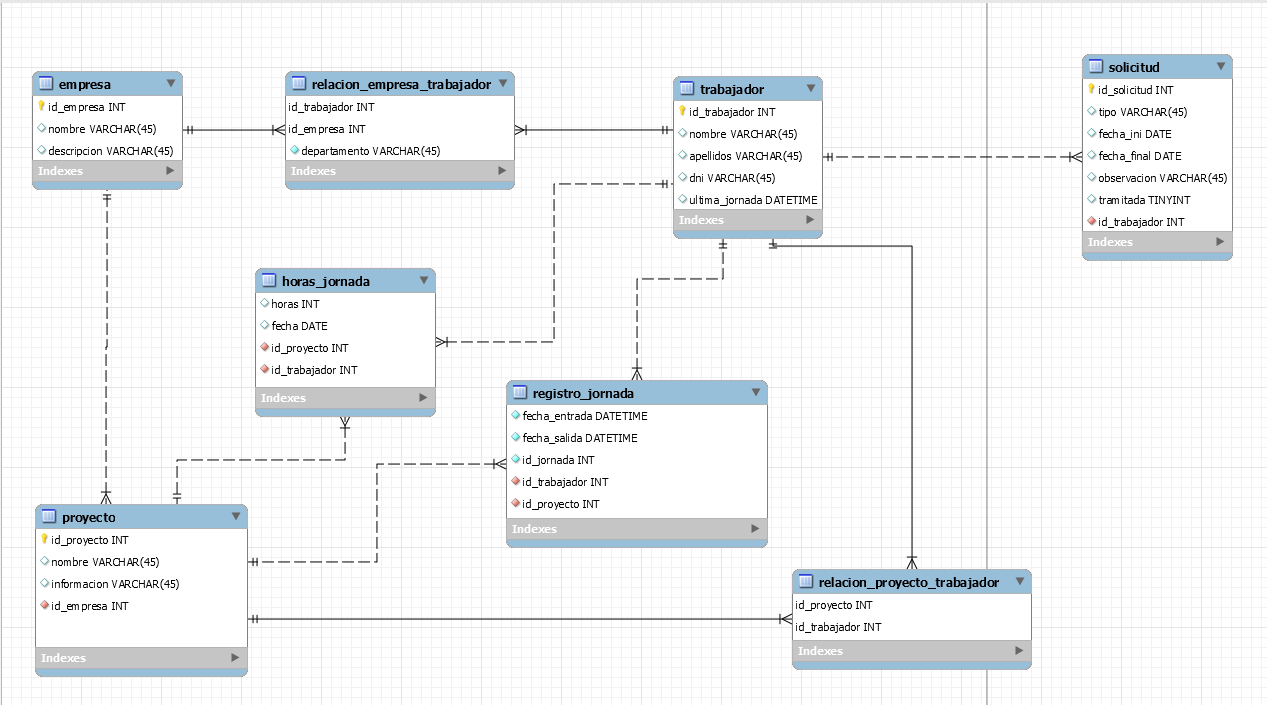
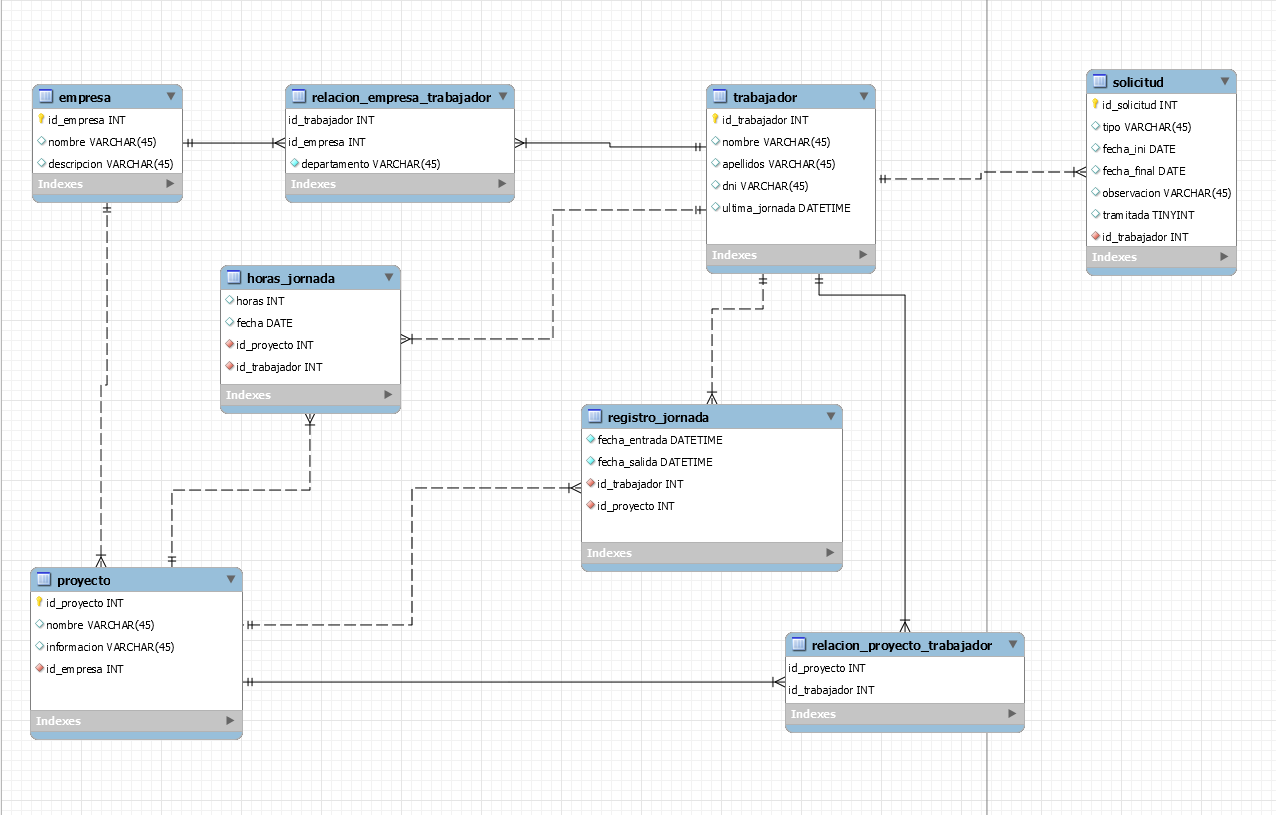
Actualizacion del diagrama EERR y la base de datos, Revision y correcion de los Dao trabajador y registroJornada

diff --git a/IngenierosAlPeso/src/main/java/util/TrabajadorDao.java b/IngenierosAlPeso/src/main/java/util/TrabajadorDao.java
@@ -30,11 +30,12 @@ public class TrabajadorDao {
 
     public void addTrabajador(Trabajador trabajador) {
         try {
-            PreparedStatement preparedStatement = connection.prepareStatement("insert into trabajador(nombre,apellidos, dni) values (?, ?, ?)");
+            PreparedStatement preparedStatement = connection.prepareStatement("insert into trabajador(nombre,apellidos, dni, ultima_jornada) values (?, ?, ?, ?)");
             // Parameters start with 1 
             preparedStatement.setString(1, trabajador.getNombre());
             preparedStatement.setString(2, trabajador.getApellidos());            
             preparedStatement.setString(3, trabajador.getDni());
+            preparedStatement.setTimestamp(4, trabajador.getUltimaJornada());
             preparedStatement.executeUpdate();
         } catch (SQLException e) {
             Log.logdb.error("SQL Exception: " + e);
@@ -54,12 +55,13 @@ public class TrabajadorDao {
 
     public void updateTrabajador(Trabajador trabajador) {
         try {
-            PreparedStatement preparedStatement = connection.prepareStatement("update trabajador set nombre=?, apellidos=?, dni=?" + "where id_trabajador=?");
+            PreparedStatement preparedStatement = connection.prepareStatement("update trabajador set nombre=?, apellidos=?, dni=?, ultima_jornada=?" + "where id_trabajador=?");
             // Parameters start with 1 
             preparedStatement.setString(1, trabajador.getNombre());
             preparedStatement.setString(2, trabajador.getApellidos());            
             preparedStatement.setString(3, trabajador.getDni());
-            preparedStatement.setInt(4, trabajador.getIdTrabajador());
+            preparedStatement.setTimestamp(4, trabajador.getUltimaJornada());
+            preparedStatement.setInt(5, trabajador.getIdTrabajador());
             preparedStatement.executeUpdate();
         } catch (SQLException e) {
             Log.logdb.error("SQL Exception: " + e);            
@@ -75,10 +77,11 @@ public class TrabajadorDao {
                 ResultSet rs = statement.executeQuery("select * from trabajador;");
                 while (rs.next()) {
                     Trabajador trabajador = new Trabajador();
-                    trabajador.setIdTrabajador(rs.getInt("userid"));
-                    trabajador.setNombre(rs.getString("firstname"));
-                    trabajador.setApellidos(rs.getString("lastname"));
-                    trabajador.setDni(rs.getString("dni"));              
+                    trabajador.setIdTrabajador(rs.getInt("id_trabajador"));
+                    trabajador.setNombre(rs.getString("nombre"));
+                    trabajador.setApellidos(rs.getString("apellidos"));
+                    trabajador.setDni(rs.getString("dni"));
+                    trabajador.setUltimaJornada(rs.getTimestamp("ultima_jornada"));   
                     dbTrabajador.add(trabajador);
                 }
             } catch (SQLException e) {
@@ -101,10 +104,11 @@ public class TrabajadorDao {
             preparedStatement.setInt(1, idTrabajador);
             ResultSet rs = preparedStatement.executeQuery();
             if (rs.next()) {
-                trabajador.setIdTrabajador(rs.getInt("userid"));
-                trabajador.setNombre(rs.getString("firstname"));
-                trabajador.setApellidos(rs.getString("lastname"));
+                trabajador.setIdTrabajador(rs.getInt("id_trabajador"));
+                trabajador.setNombre(rs.getString("nombre"));
+                trabajador.setApellidos(rs.getString("apellidos"));
                 trabajador.setDni(rs.getString("dni"));
+                trabajador.setUltimaJornada(rs.getTimestamp("ultima_jornada"));
             }
         } catch (SQLException e) {
             Log.logdb.error("SQL Exception: " + e);

diff --git a/IngenierosAlPeso/src/main/java/util/DbUtil.java b/IngenierosAlPeso/src/main/java/util/DbUtil.java
@@ -18,7 +18,7 @@ public class DbUtil {
     private static Connection connection = null;
 
     public static Connection getConnection() {
-        String driver = "com.mysql.jdbc.Driver";
+        String driver = "com.mysql.jdbc.Driver";// Cambiar userdb por el nombre de la base de datos en MySQL
         String url="jdbc:mysql://localhost:3306/userdb?useTimezone=true&serverTimezone=UTC";
         String user="root";
         String password="root"; 
